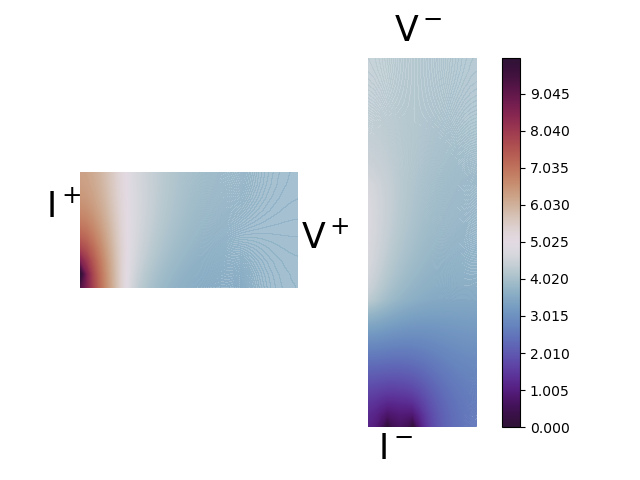
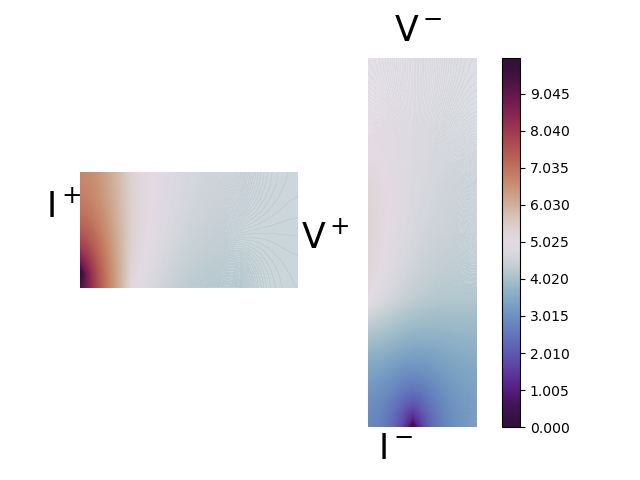
Modified image.png

Changed region(s): [[0.5625, 0.0938, 0.75, 0.9062], [0.125, 0.3438, 0.4688, 0.625]]

diff --git a/main.py b/main.py
@@ -20,7 +20,6 @@ class Node:
 
 def set_boundary(grid1,grid2):
     grid1[8][0] = Node(10.0, Fixed.A)
-    grid2[3][0] = Node(0.0, Fixed.B)
     grid2[7][0] = Node(0.0, Fixed.B)
     grid1[3][34] = Node(0.0, Fixed.C)
     grid2[3][29] = Node(0.0, Fixed.D)
